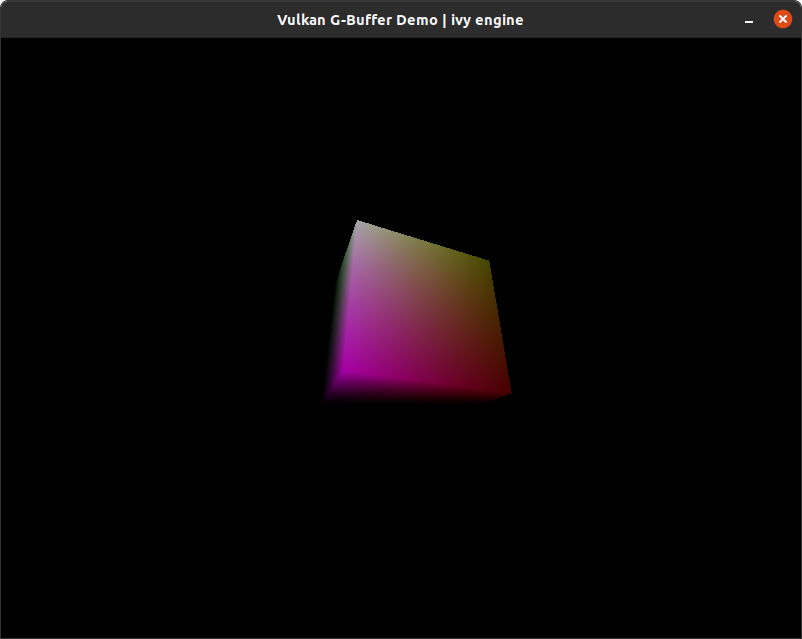
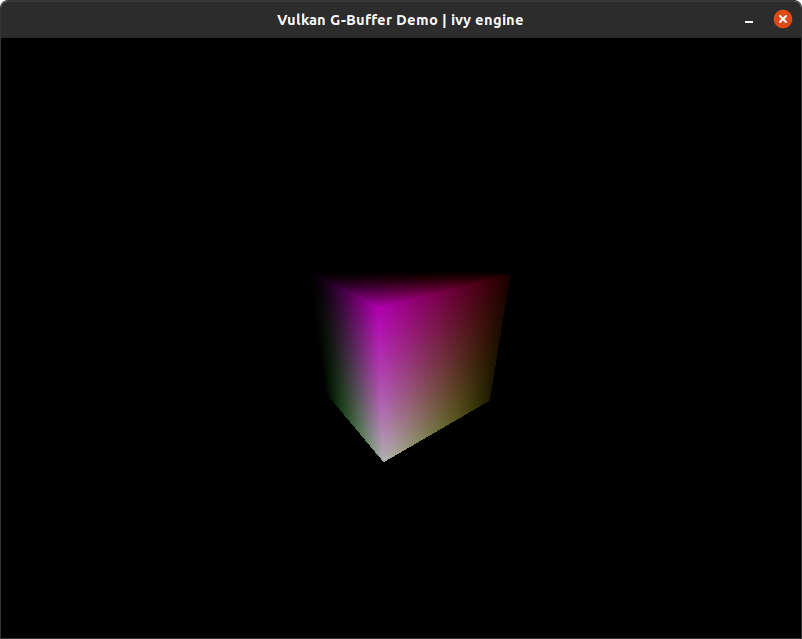
Flip viewport upside down

Changed region(s): [[0.4052, 0.3271, 0.6546, 0.7433]]

diff --git a/src/ivy/graphics/render_device.cpp b/src/ivy/graphics/render_device.cpp
@@ -519,7 +519,7 @@ VkPipeline RenderDevice::createGraphicsPipeline(const std::vector<Shader> &shade
     rasterizationCreateInfo.polygonMode = VK_POLYGON_MODE_FILL;
     rasterizationCreateInfo.lineWidth = 1.0f;
     rasterizationCreateInfo.cullMode = VK_CULL_MODE_BACK_BIT;
-    rasterizationCreateInfo.frontFace = VK_FRONT_FACE_CLOCKWISE;
+    rasterizationCreateInfo.frontFace = VK_FRONT_FACE_COUNTER_CLOCKWISE;
     rasterizationCreateInfo.depthBiasEnable = VK_FALSE;
 
     // Multisampling
@@ -554,6 +554,14 @@ VkPipeline RenderDevice::createGraphicsPipeline(const std::vector<Shader> &shade
     colorBlendCreateInfo.attachmentCount = (u32) colorBlendAttachmentStates.size();
     colorBlendCreateInfo.pAttachments = colorBlendAttachmentStates.data();
 
+    // Dynamic state
+    VkDynamicState dynamicStates[] = { VK_DYNAMIC_STATE_VIEWPORT };
+
+    VkPipelineDynamicStateCreateInfo dynamicStateCreateInfo = {};
+    dynamicStateCreateInfo.sType = VK_STRUCTURE_TYPE_PIPELINE_DYNAMIC_STATE_CREATE_INFO;
+    dynamicStateCreateInfo.pDynamicStates = dynamicStates;
+    dynamicStateCreateInfo.dynamicStateCount = COUNTOF(dynamicStates);
+
     VkGraphicsPipelineCreateInfo ci = {};
     ci.sType = VK_STRUCTURE_TYPE_GRAPHICS_PIPELINE_CREATE_INFO;
     ci.pNext = nullptr;
@@ -568,7 +576,7 @@ VkPipeline RenderDevice::createGraphicsPipeline(const std::vector<Shader> &shade
     ci.pMultisampleState = &multisampleCreateInfo;
     ci.pDepthStencilState = has_depth_attachment ? &depthStencilCreateInfo : nullptr;
     ci.pColorBlendState = &colorBlendCreateInfo;
-    ci.pDynamicState = nullptr; // TODO: dynamic state
+    ci.pDynamicState = &dynamicStateCreateInfo;
     ci.layout = layout;
     ci.renderPass = render_pass;
     ci.subpass = subpass;

diff --git a/src/ivy/graphics/command_buffer.cpp b/src/ivy/graphics/command_buffer.cpp
@@ -42,8 +42,16 @@ void CommandBuffer::executeGraphicsPass(RenderDevice &device, const GraphicsPass
     renderPassBeginInfo.clearValueCount = clearValues.size();
     renderPassBeginInfo.pClearValues = clearValues.data();
 
+    // Flip the viewport upside down
+    VkViewport viewport = {};
+    viewport.width = (f32) renderPassBeginInfo.renderArea.extent.width;
+    viewport.height = -1.0f * (f32) renderPassBeginInfo.renderArea.extent.height;
+    viewport.x = (f32) renderPassBeginInfo.renderArea.offset.x;
+    viewport.y = (f32) renderPassBeginInfo.renderArea.offset.y + (f32) renderPassBeginInfo.renderArea.extent.height;
+
     // Start render pass, call user functions, end render pass
     vkCmdBeginRenderPass(commandBuffer_, &renderPassBeginInfo, VK_SUBPASS_CONTENTS_INLINE);
+    vkCmdSetViewport(commandBuffer_, 0, 1, &viewport);
     func();
     vkCmdEndRenderPass(commandBuffer_);
 }

diff --git a/src/ivy/renderer.cpp b/src/ivy/renderer.cpp
@@ -6,7 +6,6 @@
 
 namespace ivy {
 
-// TODO: flip viewport
 // TODO: textures
 // TODO: multiple render passes
 
